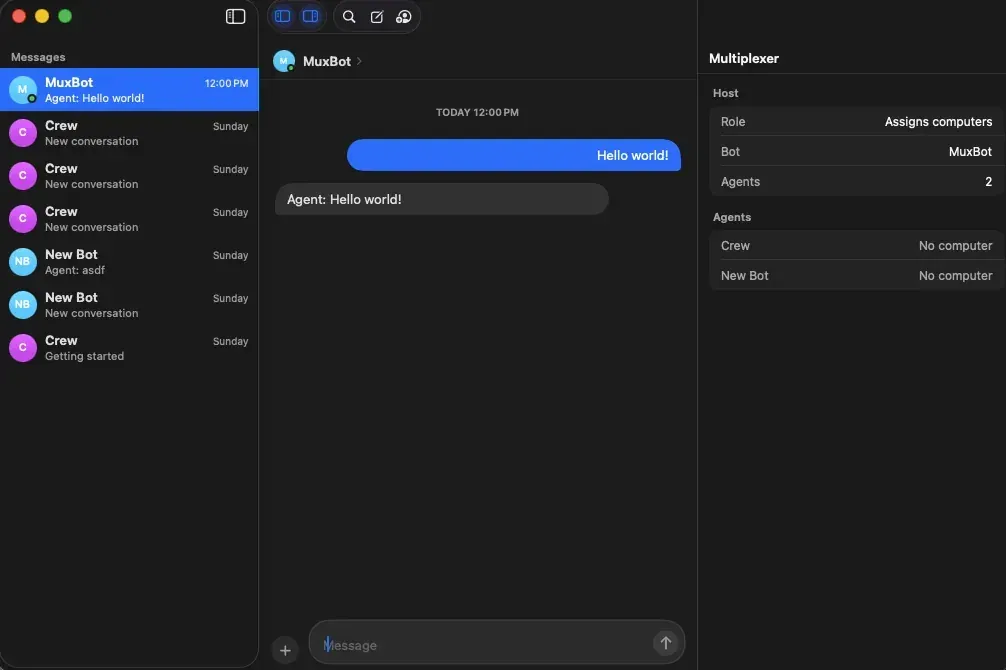
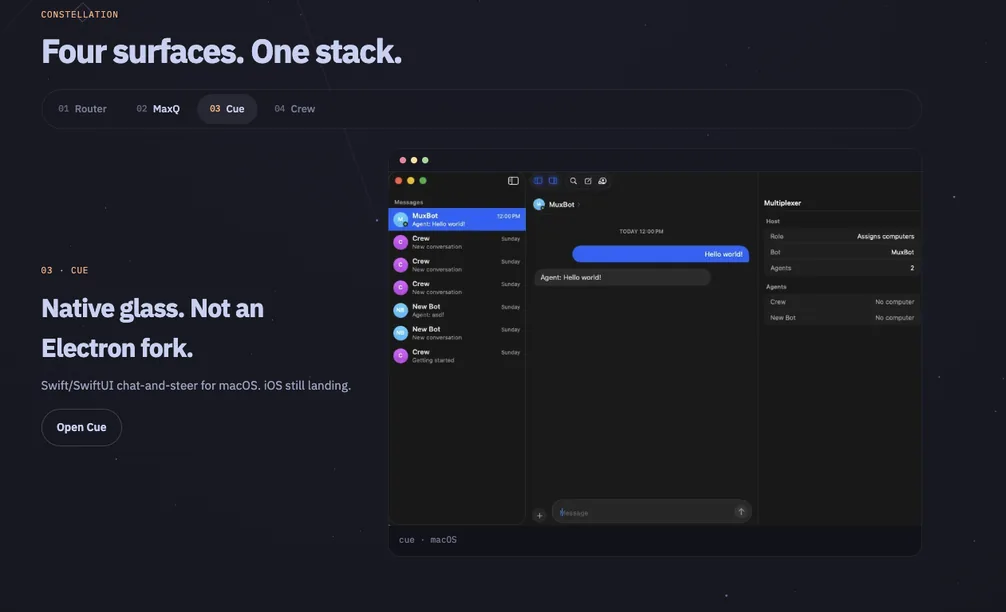
Honor MaxQ markup: rainbow bar, pastel headline, desktops hero.

diff --git a/web/src/pages.ts b/web/src/pages.ts
@@ -43,13 +43,13 @@ const surfaces = [
     id: "maxq",
     num: "02",
     label: "MaxQ",
-    title: "Persist-safe. Revert is part of the product.",
-    lede: "Only $HOME. Mocha on the glass. Loopback for control. Revert does not delete the machine.",
-    src: "/shots/settings.webp",
-    alt: "MaxQ settings sheet, theme mocha, state applied",
-    cap: "maxq · settings applied",
-    w: 1000,
-    h: 624,
+    title: "The computer Grok Bot runs on.",
+    lede: "Utilities for the bot. Secondary controls for you: settings, telemetry, processes, every desktop.",
+    src: "/shots/desktops.webp",
+    alt: "MaxQ desktops multiplexer, live Xvfb :1 through :15, current :5",
+    cap: "maxq · desktops",
+    w: 1037,
+    h: 1200,
     href: "#home",
   },
   {
@@ -71,9 +71,9 @@ const surfaces = [
     label: "Crew",
     title: "Chat stays in Crew. The box is a provider.",
     lede: "Cue-like SwiftUI with pluggable ComputerProviders: local Docker/VZ, Proxmox, AWS/EC2, Connect-Mac.",
-    src: "/shots/crew-macos.webp",
-    alt: "Crew multiplexer on macOS: Assigns computers",
-    cap: "crew · macOS multiplexer",
+    src: "",
+    alt: "",
+    cap: "crew · screenshot landing",
     w: 1006,
     h: 670,
     href: "#crew",
@@ -97,26 +97,35 @@ export function renderHome(): string {
           <p class="lede">${s.lede}</p>
           <a class="btn-ghost" href="${s.href}">Open ${s.label}</a>
         </div>
-        ${bezel(s.src, s.alt, s.cap, "laptop", s.w, s.h)}
+        ${s.src
+          ? bezel(s.src, s.alt, s.cap, "laptop", s.w, s.h)
+          : `<figure class="bezel empty"><div class="chrome"><span></span><span></span><span></span></div><p class="ph">Crew screenshot landing. Not Cue.</p><figcaption>${s.cap}</figcaption></figure>`}
       </div>`
     )
     .join("");
   return `
     <section class="hero">
       <div class="hero-copy">
-        <p class="eyebrow">Persist-safe Grok Bot computer</p>
-        <h1>Take your Grok Bot to ${nameLogo("hero-logo")}.</h1>
-        <p class="lede">Mocha on the glass. Loopback for control. Revert does not delete the machine.</p>
+        <p class="eyebrow">Constellation · first product</p>
+        <h1>
+          <span class="words">Take your Grok Bot to</span>
+          <span class="h1-end">${nameLogo("hero-logo")}</span>
+        </h1>
+        <p class="lede">MaxQ is the build package for the computer Grok Bot runs on. The bot gets the utilities to ship code. You get the side door: settings, telemetry, processes, and every desktop.</p>
         <div class="cta-row">
           <a class="btn-solid" href="#install">Install</a>
           <a class="btn-ghost" href="#how">See how it works</a>
         </div>
-        ${installLine()}
       </div>
       <div class="hero-visual">
-        ${bezel("/shots/maxq-desktop.webp", "MaxQ mocha workstation on grokbot", "maxq · ghostty 1.3.1", "laptop", 1100, 687)}
+        ${bezel("/shots/desktops.webp", "MaxQ desktops multiplexer: live Xvfb :1 through :15, current :5", "maxq · desktops", "laptop", 1037, 1200)}
+        <figure class="float-shot">
+          <img src="/shots/packages.webp" alt="MaxQ SBOM packages inventory" width="439" height="835" />
+          <figcaption>packages · SBOM</figcaption>
+        </figure>
       </div>
     </section>
+    <div class="install-bar">${installLine()}</div>
     <div class="proof">
       <span>state=applied</span>
       <span>intercept=false</span>
@@ -126,12 +135,12 @@ export function renderHome(): string {
     <section class="how" id="how">
       <div class="how-copy">
         <p class="eyebrow">How it works</p>
-        <h2 class="display">One box. Four simple steps.</h2>
+        <h2 class="display">One box. Operator and bot.</h2>
         <ol class="steps">
-          <li><span class="step-num">01</span><div><h3>Persist</h3><p>Only <code>$HOME</code> — bin, .config/maxq, .local. Revert does not delete the machine.</p></div></li>
-          <li><span class="step-num">02</span><div><h3>Glass</h3><p>Mocha wallpaper, GTK, Ghostty, unpacked Chrome theme, plank, rofi.</p></div></li>
-          <li><span class="step-num">03</span><div><h3>Loopback</h3><p>maxq-api on 127.0.0.1:7432. Apply, revert, proxy. Non-loopback binds are refused.</p></div></li>
-          <li><span class="step-num">04</span><div><h3>Prove</h3><p>Revert → apply → assert. Leaves APPLIED. Intercept stays false.</p></div></li>
+          <li><span class="step-num">01</span><div><h3>Packages</h3><p>SBOM inventory for the bot: go, node, docker, ghostty, grok, claude. Not apt. Does not mutate packages.</p></div></li>
+          <li><span class="step-num">02</span><div><h3>Operator glass</h3><p>Settings on loopback. Side-saddle the bot. Configure the machine without taking it hostage.</p></div></li>
+          <li><span class="step-num">03</span><div><h3>Desktops</h3><p>Live Xvfb through the noVNC multiplexer. :1–:15. View, switch, this desktop.</p></div></li>
+          <li><span class="step-num">04</span><div><h3>Persist</h3><p>Only <code>$HOME</code>. Revert does not delete the machine. Prove leaves APPLIED.</p></div></li>
         </ol>
       </div>
       ${bezel("/shots/settings.webp", "MaxQ settings sheet, theme mocha, state applied", "settings · applied", "laptop", 1000, 624)}
@@ -184,7 +193,10 @@ export function renderCue(): string {
       <p class="lede">Swift/SwiftUI chat-and-steer for macOS. iOS still landing.</p>
     </article>
     <div class="device-row one">
-      ${bezel("/shots/cue-macos.webp", "Cue macOS: Messages, MuxBot chat, Multiplexer assigns computers", "cue · macOS", "laptop", 1006, 670)}
+      ${bezel("/shots/cue-macos.webp", "Cue macOS: Messages, MuxBot chat, Multiplexer assigns computers", "cue · macOS", "laptop", 1006, 612)}
+    </div>
+    <div class="device-row one">
+      ${bezel("/shots/cue-macos-2.webp", "Cue macOS 3-pane, MuxBot Hello world, Multiplexer host and agents", "cue · macOS", "laptop", 1006, 635)}
     </div>`;
 }
 
@@ -196,7 +208,11 @@ export function renderCrew(): string {
       <p class="lede">Cue-like SwiftUI with pluggable ComputerProviders: local Docker/VZ, Proxmox, AWS/EC2, Connect-Mac. Chat stays in Crew. The box is a provider.</p>
     </article>
     <div class="device-row one">
-      ${bezel("/shots/crew-macos.webp", "Crew multiplexer on macOS: Assigns computers", "crew · macOS multiplexer", "laptop", 1006, 670)}
+      <figure class="bezel empty">
+        <div class="chrome"><span></span><span></span><span></span></div>
+        <p class="ph">Crew screenshot landing. Cue is not a stand-in.</p>
+        <figcaption>crew · pending</figcaption>
+      </figure>
     </div>`;
 }
 

diff --git a/web/src/styles.css b/web/src/styles.css
@@ -76,7 +76,7 @@ a { color: inherit; }
   position: sticky;
   top: 0;
   z-index: 10;
-  background: color-mix(in srgb, var(--crust) 78%, transparent);
+  background: color-mix(in srgb, var(--crust) 22%, transparent);
   backdrop-filter: blur(16px);
 }
 .brand { display: flex; align-items: center; text-decoration: none; overflow: visible; }
@@ -89,6 +89,21 @@ a { color: inherit; }
 .nav a:hover { color: var(--text); }
 .nav a.active { color: var(--text); }
 .nav-end { display: flex; align-items: center; gap: .5rem; }
+.brand { flex-direction: column; align-items: flex-start; gap: .15rem; }
+.brand-kicker {
+  font-family: IBM Plex Mono, ui-monospace, monospace;
+  font-size: 10px; letter-spacing: .14em; text-transform: uppercase;
+  color: var(--overlay1);
+}
+.accent {
+  height: 3px;
+  margin: 0 -1.5rem .4rem;
+  background: linear-gradient(90deg, var(--rosewater), var(--pink), var(--mauve), var(--blue), var(--sky), var(--teal), var(--green), var(--yellow), var(--peach), var(--rosewater));
+  background-size: 200% 100%;
+  animation: accent-shift 20s linear infinite;
+}
+@keyframes accent-shift { to { background-position: 200% 0; } }
+
 
 .btn-solid, .btn-ghost {
   display: inline-flex; align-items: center; justify-content: center;
@@ -132,16 +147,48 @@ a { color: inherit; }
 }
 .hero h1 {
   margin: 0 0 .85rem; font-weight: 900; letter-spacing: -.045em;
-  font-size: clamp(2.6rem, 5.4vw, 4.4rem); line-height: 1.05; color: var(--text);
-  display: flex; flex-wrap: wrap; align-items: baseline; gap: .18em .28em;
+  font-size: clamp(2.4rem, 5vw, 4.1rem); line-height: 1.08; color: var(--text);
+  display: flex; flex-wrap: wrap; align-items: baseline; column-gap: .28em; row-gap: .08em;
 }
+.hero h1 .words {
+  color: transparent;
+  background: linear-gradient(90deg, var(--pink), var(--mauve), var(--blue), var(--sky), var(--teal), var(--green), var(--yellow), var(--peach));
+  background-size: 140% 100%;
+  -webkit-background-clip: text; background-clip: text; -webkit-text-fill-color: transparent;
+  animation: accent-shift 18s linear infinite;
+}
+.hero h1 .h1-end { display: inline-flex; align-items: baseline; }
 .hero h1 .hero-logo {
-  display: inline-block; height: clamp(48px, 8vw, 88px); width: auto;
-  max-height: clamp(48px, 8vw, 88px); object-fit: contain; object-position: left bottom;
+  display: inline-block; height: clamp(52px, 8.5vw, 92px); width: auto;
+  max-height: clamp(52px, 8.5vw, 92px); object-fit: contain; object-position: left bottom;
   vertical-align: baseline;
 }
 .hero-copy .lede { font-size: 1.08rem; }
-.cta-row { display: flex; flex-wrap: wrap; gap: .65rem; margin: 0 0 1.1rem; }
+.cta-row { display: flex; flex-wrap: wrap; gap: .65rem; margin: 0; }
+.install-bar { margin: 0 0 1.4rem; }
+.install-bar .term { width: 100%; }
+.hero-visual { position: relative; min-height: 280px; }
+.float-shot {
+  position: absolute; left: -1.2rem; bottom: -1.4rem; z-index: 2;
+  width: min(42%, 220px); margin: 0;
+  border: 1px solid color-mix(in srgb, var(--text) 12%, transparent);
+  border-radius: 14px; overflow: hidden;
+  background: var(--crust);
+  box-shadow: 0 24px 48px rgba(0,0,0,.5);
+}
+.float-shot img { display: block; width: 100%; height: auto; }
+.float-shot figcaption {
+  padding: .4rem .6rem; font-family: IBM Plex Mono, ui-monospace, monospace;
+  font-size: 10px; color: var(--overlay1); border-top: 1px solid var(--rule);
+}
+.bezel.empty .ph {
+  min-height: 220px; margin: 0; padding: 2rem 1.2rem;
+  display: flex; align-items: center; color: var(--overlay0);
+  font-family: IBM Plex Mono, ui-monospace, monospace; font-size: 13px;
+}
+@media (max-width: 720px) {
+  .float-shot { position: static; width: 100%; margin-top: 1rem; }
+}
 .hero-visual { position: relative; min-height: 240px; }
 .hero-visual .bezel {
   transform: translateY(8px);
@@ -320,7 +367,7 @@ ul.inv li { padding: .42rem 0; border-bottom: 1px solid var(--rule); color: var(
 
 @media (prefers-reduced-motion: reduce) {
   .hero-visual .bezel { transition: none !important; transform: none !important; }
-  .dia, .cursor { animation: none; }
+  .dia, .cursor, .accent, .hero h1 .words { animation: none; }
   .loader { display: none !important; }
 }
 

diff --git a/web/index.html b/web/index.html
@@ -10,7 +10,7 @@
     <meta property="og:title" content="MaxQ" />
     <meta property="og:description" content="A persist-safe agent workstation. Mocha on the glass. Loopback for control." />
     <link rel="preload" as="image" href="/namelogo.webp" />
-    <link rel="preload" as="image" href="/shots/maxq-desktop.webp" />
+    <link rel="preload" as="image" href="/shots/desktops.webp" />
     <link rel="preconnect" href="https://fonts.googleapis.com" />
     <link rel="preconnect" href="https://fonts.gstatic.com" crossorigin />
     <link href="https://fonts.googleapis.com/css2?family=IBM+Plex+Mono:wght@400;500&family=IBM+Plex+Sans:wght@400;500;600;700;900&display=swap" rel="stylesheet" />
@@ -27,7 +27,7 @@
     </div>
     <div id="app">
       <header class="topbar">
-        <a class="brand" href="#home"><img class="namelogo" src="/namelogo.webp" alt="MaxQ" width="1319" height="318" /></a>
+        <a class="brand" href="#home"><span class="brand-kicker">Constellation</span><img class="namelogo" src="/namelogo.webp" alt="MaxQ" width="1319" height="318" /></a>
         <nav class="nav">
           <a class="active" href="#home">maxq</a>
           <a href="#stack">stack</a>
@@ -40,11 +40,12 @@
           <a class="btn-solid btn-sm" href="#install">Install</a>
         </div>
       </header>
+      <div class="accent" aria-hidden="true"></div>
       <section class="hero">
         <div class="hero-copy">
-          <p class="eyebrow">Persist-safe Grok Bot computer</p>
-          <h1>Take your Grok Bot to <img class="hero-logo" src="/namelogo.webp" alt="MaxQ" width="1319" height="318" />.</h1>
-          <p class="lede">Mocha on the glass. Loopback for control. Revert does not delete the machine.</p>
+          <p class="eyebrow">Constellation · first product</p>
+          <h1><span class="words">Take your Grok Bot to</span> <span class="h1-end"><img class="hero-logo" src="/namelogo.webp" alt="MaxQ" width="1319" height="318" /></span></h1>
+          <p class="lede">MaxQ is the build package for the computer Grok Bot runs on. The bot gets the utilities to ship code. You get the side door: settings, telemetry, processes, and every desktop.</p>
           <div class="cta-row">
             <a class="btn-solid" href="#install">Install</a>
             <a class="btn-ghost" href="#how">See how it works</a>
@@ -53,7 +54,7 @@
         <div class="hero-visual">
           <figure class="bezel laptop">
             <div class="chrome"><span></span><span></span><span></span></div>
-            <img class="hero-laptop" src="/shots/maxq-desktop.webp" alt="MaxQ mocha workstation on grokbot" width="1100" height="687" />
+            <img class="hero-laptop" src="/shots/desktops.webp" alt="MaxQ desktops multiplexer" width="1037" height="1200" />
           </figure>
         </div>
       </section>

diff --git a/web/src/main.ts b/web/src/main.ts
@@ -24,13 +24,17 @@ function shell(inner: string, route: Route): string {
   }).join("");
   return `
     <header class="topbar">
-      <a class="brand" href="#home"><img class="namelogo" src="/namelogo.webp" alt="MaxQ" width="1319" height="318" /></a>
+      <a class="brand" href="#home">
+        <span class="brand-kicker">Constellation</span>
+        <img class="namelogo" src="/namelogo.webp" alt="MaxQ" width="1319" height="318" />
+      </a>
       <nav class="nav">${links}</nav>
       <div class="nav-end">
         <a class="btn-ghost btn-sm" href="${GITHUB}">GitHub</a>
         <a class="btn-solid btn-sm" href="#install">Install</a>
       </div>
     </header>
+    <div class="accent" aria-hidden="true"></div>
     ${inner}
     <footer class="foot">
       <span>MIT · mocha</span>
